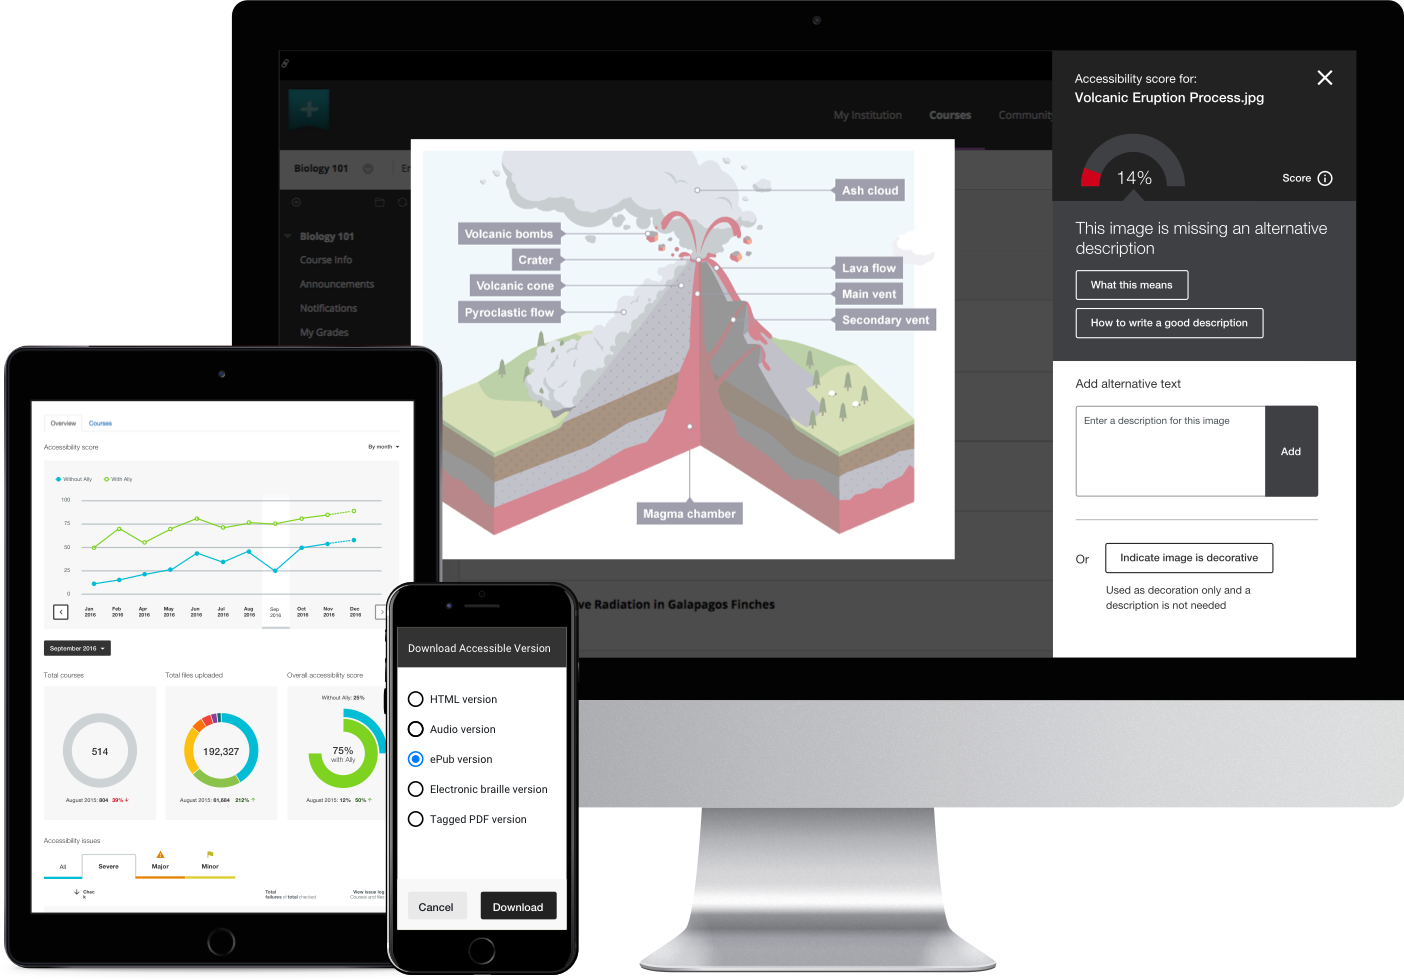
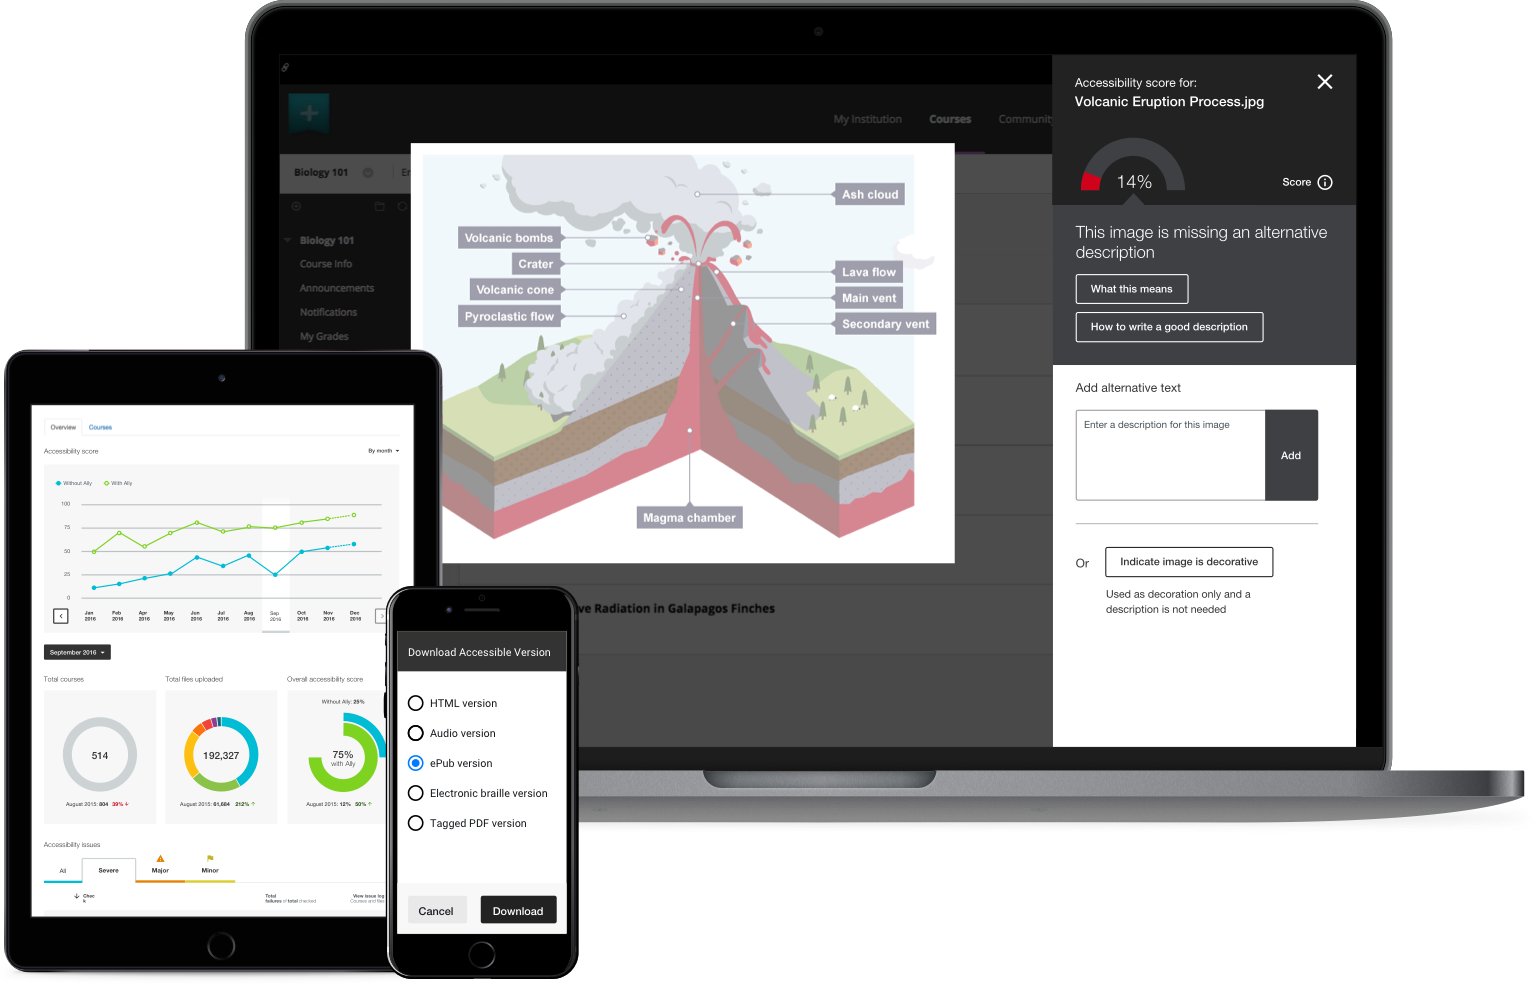
Updates to website
Replaced hero image with laptop instead of monitor, fixed padding and
removed title from video.

diff --git a/webinar/ally-webinar-Jan2017-reminder-v02.html b/webinar/ally-webinar-Jan2017-reminder-v02.html
@@ -1,0 +1,129 @@
+<!DOCTYPE HTML PUBLIC "-//W3C//DTD HTML 4.01//EN" "http://www.w3.org/TR/html4/strict.dtd">
+<html xmlns="http://www.w3.org/1999/xhtml" lang="en" xml:lang="en">
+<head>
+	<meta http-equiv="Content-Type" content="text/html; charset=UTF-8">
+	<title>Ally – Making course content accesssible</title>
+</head>
+
+<body>
+
+	<div style="Margin:0;padding-top:0;padding-bottom:0;padding-right:0;padding-left:0;min-width:100%;background-color:#eaecec;">
+		<table style="border-spacing:0;width:100%;background-color:#eaecec;table-layout:fixed;">
+			<tbody>
+				<tr>
+					<td align="center" style="padding-top:30px;padding-bottom:0;padding-right:0;padding-left:0;vertical-align:top;">
+						<div style="font-size:40px;line-height:40px;min-height:40px;display:block">&nbsp;</div>
+						<center>
+							<div style="font-size:40px;line-height:20px;min-height:20px;display:block;">&nbsp;</div>
+							<table width="600" style="border-spacing:0;Margin:0 auto;">
+                            	<tbody>
+                                	<tr>
+                                    	<td style="Margin-top:0;font-weight:normal;font-family:sans-serif;font-size:12px;Margin-bottom:15px;text-align:left;color:#4e6767;">Blackboard Ally User Group Webinar Reminder</td>
+                                    </tr>
+                                </tbody>
+                            </table>
+                            <div style="font-size:40px;line-height:20px;min-height:20px;display:block">&nbsp;</div>
+                            <table width="600" style="border-spacing:0;Margin:0 auto">
+								<tbody>
+									<tr>
+										<td width="600" bgcolor="#111419" style="padding-top:0;padding-bottom:0;padding-right:0;padding-left:0;vertical-align:top;Margin:0 auto">
+											<table width="100%" style="border-spacing:0">
+												<tbody>
+                                                	<tr>
+                                                		<td>
+                                                			<table width="100%" style="border-spacing:0">
+                                                				<tbody>
+                                                					<tr>
+				                                                    	<td style="text-align:center;padding-top:40px;padding-bottom:0;padding-right:0;padding-left:0;vertical-align:top">
+				                                                        	<h1>
+					                                                        	<img src="images/ally-logo.png" alt="Ally logo" title="Ally" height="73px" style="Margin-bottom:10px;"><br>
+				                                                        	</h1>
+				                                                        </td>
+				                                                    </tr>
+		                                                    </table>
+	                                                    </td>
+                                                    </tr>
+												</tbody>
+                                            </table>
+										</td>
+									</tr>
+								</tbody>
+							</table>
+							<table width="600" style="border-spacing:0;Margin:0 auto;">
+								<tbody>
+									<tr>
+										<td width="600" bgcolor="#111419" style="padding-top:0;padding-bottom:60px;padding-right:0;padding-left:0;vertical-align:top;Margin:0 auto">
+											<table width="100%" style="border-spacing:0;">
+                                				<tbody>
+                                					<tr>
+                                                    	<td style="text-align:center;padding-top:40px;padding-bottom:0;padding-right:0;padding-left:0;vertical-align:top">
+                                                        	<h3 style="font-family:sans-serif;font-weight:lighter;text-align:center;font-size:34px;line-height:26px;Margin-top:0;Margin-bottom:40px;color:#00c0cb;">Webinar reminder</h3>
+                                                        	<h4 style="font-family:sans-serif;font-weight:lighter;text-align:center;font-size:34px;line-height:20px;Margin-top:0;Margin-bottom:20px;color:#ffffff;">Tuesday January 17</h4>
+                                                        	<h5 style="font-family:sans-serif;font-weight:lighter;text-align:center;font-size:20px;line-height:20px;Margin-top:0;Margin-bottom:20px;color:#ffffff;">4pm CET / 3pm GMT / 10am EST / 7am PST</h5>
+                                                        	<a href="http://drip.la/c/eyJhY2NvdW50X2lkIjoiOTA0MTg3NSIsInRyaWdnZXJfaWQiOiI2ZGQxZDdmMGE1ZGMwMTM0YzU4NDBhY2JjYjI4ZDZjMyIsInVybCI6Imh0dHA6Ly9hbGx5LmFjL3dlYmluYXIvSW50cm9kdWNpbmdfQWxseV9XZWJpbmFyX0phbl8xN18yMDE3LmljcyJ9" style="padding-top:10px;padding-bottom:10px;padding-right:20px;padding-left:20px;background-color:#007900;font-family:sans-serif;font-weight:normal;font-size:18px;line-height:20px;text-align:left;text-decoration: none;Margin-bottom:20px;color:#ffffff;">Add to calendar</a>
+                                                        </td>
+                                                    </tr>
+                                                    <tr>
+                                                    	<td style="text-align:center;padding-top:50px;padding-bottom:0;padding-right:0;padding-left:0;vertical-align:top">
+                                                        	<h4 style="font-family:sans-serif;font-weight:lighter;text-align:center;font-size:34px;line-height:20px;Margin-top:0;Margin-bottom:20px;color:#ffffff;">Wednesday January 18</h4>
+                                                        	<h5 style="font-family:sans-serif;font-weight:lighter;text-align:center;font-size:20px;line-height:20px;Margin-top:0;Margin-bottom:20px;color:#ffffff;">7pm CET / 6pm GMT / 1pm EST / 10am PST</h5>
+                                                        	<a href="http://drip.la/c/eyJhY2NvdW50X2lkIjoiOTA0MTg3NSIsInRyaWdnZXJfaWQiOiIwZjU4ZjdmMGE1ZTAwMTM0YTQ5YTEyMGVlNzYyZmU3ZCIsInVybCI6Imh0dHA6Ly9hbGx5LmFjL3dlYmluYXIvSW50cm9kdWNpbmdfQWxseV9XZWJpbmFyX0phbl8xOF8yMDE3LmljcyJ9" style="padding-top:10px;padding-bottom:10px;padding-right:20px;padding-left:20px;background-color:#007900;font-family:sans-serif;font-weight:normal;font-size:18px;line-height:20px;text-align:left;text-decoration: none;Margin-bottom:20px;color:#ffffff;">Add to calendar</a>
+                                                        </td>
+                                                    </tr>
+                                                </tbody>
+                                            </table>
+										</td>
+									</tr>
+								</tbody>
+							</table>
+							<table width="600" style="border-spacing:0;Margin:0 auto;">
+								<tbody>
+									<tr>
+										<td style="padding-top:0;padding-bottom:0;padding-right:0;padding-left:0;vertical-align:top;background-color:#eaecec;width:1px;"></td>
+										<td width="600" bgcolor="#ffffff" style="padding-top:0;padding-bottom:0;padding-right:0;padding-left:0;vertical-align:top;Margin:0 auto;">
+											<table width="100%" style="border-spacing:0;">
+												<tbody>
+													<tr>
+														<td style="vertical-align:top;padding-bottom:30px;padding-left:60px;padding-right:60px;padding-top:30px;">
+															<table width="100%" style="border-spacing:0;">
+																<tbody>
+																	<tr>
+																		<td style="padding-top:10px;padding-bottom:0;padding-right:0;padding-left:0;vertical-align:top;text-align:center">
+																			<p style="Margin-top:0;font-weight:normal;color:#262626;font-family:sans-serif;font-size:28px;line-height:32px;Margin-bottom:15px;">Join us on either day by using this link in Chrome:
+																			<a href="http://tinyurl.com/j3sojrf" style="Margin-top:0;font-weight:normal;color:#007900;font-family:sans-serif;font-size:28px;line-height:32px;Margin-bottom:15px;">http://tinyurl.com/j3sojrf</a></p>
+																		</td>
+																	</tr>
+																</tbody>
+															</table>
+														</td>
+													</tr>
+												</tbody>
+											</table>
+										</td>
+									</tr>
+								</tbody>
+							</table>
+
+							<div style="font-size:40px;line-height:40px;min-height:40px;display:block;">&nbsp;</div>
+						</center>
+					</td>
+				</tr>
+			</tbody>
+		</table>
+	</div>
+<!-- Drip -->
+<script type="text/javascript">
+  var _dcq = _dcq || [];
+  var _dcs = _dcs || {}; 
+  _dcs.account = '9041875';
+  
+  (function() {
+    var dc = document.createElement('script');
+    dc.type = 'text/javascript'; dc.async = true; 
+    dc.src = '//tag.getdrip.com/9041875.js';
+    var s = document.getElementsByTagName('script')[0];
+    s.parentNode.insertBefore(dc, s);
+  })();
+</script>
+</body>
+</html>

diff --git a/assets/css/style.css b/assets/css/style.css
@@ -386,7 +386,7 @@ nav ul li a:focus {
         width: 400px;
     }
     #about {
-        padding-top: 160px;
+        padding-top: 180px;
     }
 }
 
@@ -398,7 +398,7 @@ nav ul li a:focus {
         width: 500px;
     }
     #about {
-        padding-top: 210px;
+        padding-top: 230px;
     }
 }
 
@@ -410,7 +410,7 @@ nav ul li a:focus {
         width: 600px;
     }
     #about {
-        padding-top: 240px;
+        padding-top: 260px;
     }
 }
 
@@ -422,7 +422,7 @@ nav ul li a:focus {
         width: 700px;
     }
     #about {
-        padding-top: 270px;
+        padding-top: 300px;
     }
 }
 

diff --git a/index.html b/index.html
@@ -180,7 +180,7 @@
     </div>
     <footer>
         <div id="footer-video-container">
-                <iframe width="853" height="480" src="https://www.youtube.com/embed/PK-2DBIVDO8" frameborder="0" allowfullscreen></iframe>
+            <iframe width='853' height='480' src="https://www.youtube.com/embed/PK-2DBIVDO8?&theme=dark&color=white&autohide=2&cc_load_policy=1&modestbranding=1&showinfo=0&rel=0"frameborder="0"></iframe>
         </div>
         <div id="footer-logo-container">
             <figure>

diff --git a/webinar/ally-webinar-Jan2017-reminder.html b/webinar/ally-webinar-Jan2017-reminder.html
@@ -61,7 +61,7 @@
 											<table width="100%" style="border-spacing:0;">
 												<tbody>
 													<tr>
-														<td style="vertical-align:top;padding-bottom:30px;padding-left:60px;padding-right:60px;padding-top:30px;">
+														<td style="vertical-align:top;padding-bottom:30px;padding-left:0;padding-right:0;padding-top:30px;">
 															<table width="100%" style="border-spacing:0;">
 																<tbody>
 																	<tr>
